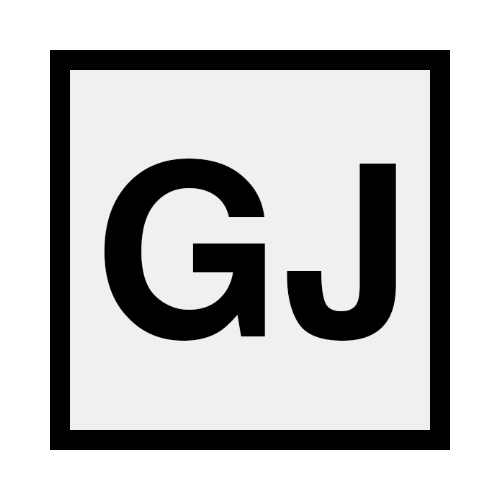
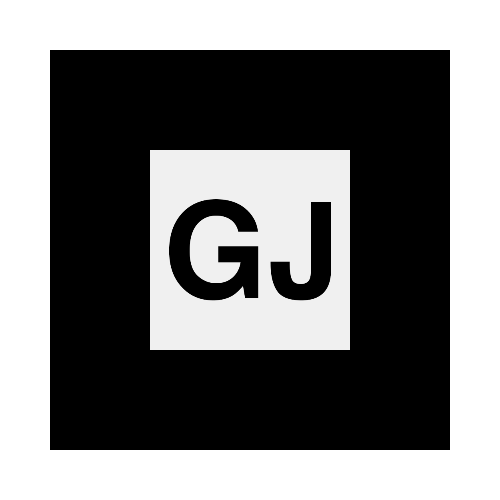
Replace image

diff --git a/ar.html b/ar.html
@@ -10,7 +10,7 @@
 </head>
 
 <body>
-    <a-scene embedded arjs='debugUIEnabled: false; patternRation: 0.9;'>
+    <a-scene embedded arjs='debugUIEnabled: false;'>
         <!-- create your content here. just a box for now -->
         <a-box position='0 0.5 0' material='opacity: 0.5;'>
             <a-entity position="1 0 0" scale="3 3 3" text="value: HELLO;color:black"></a-entity>
